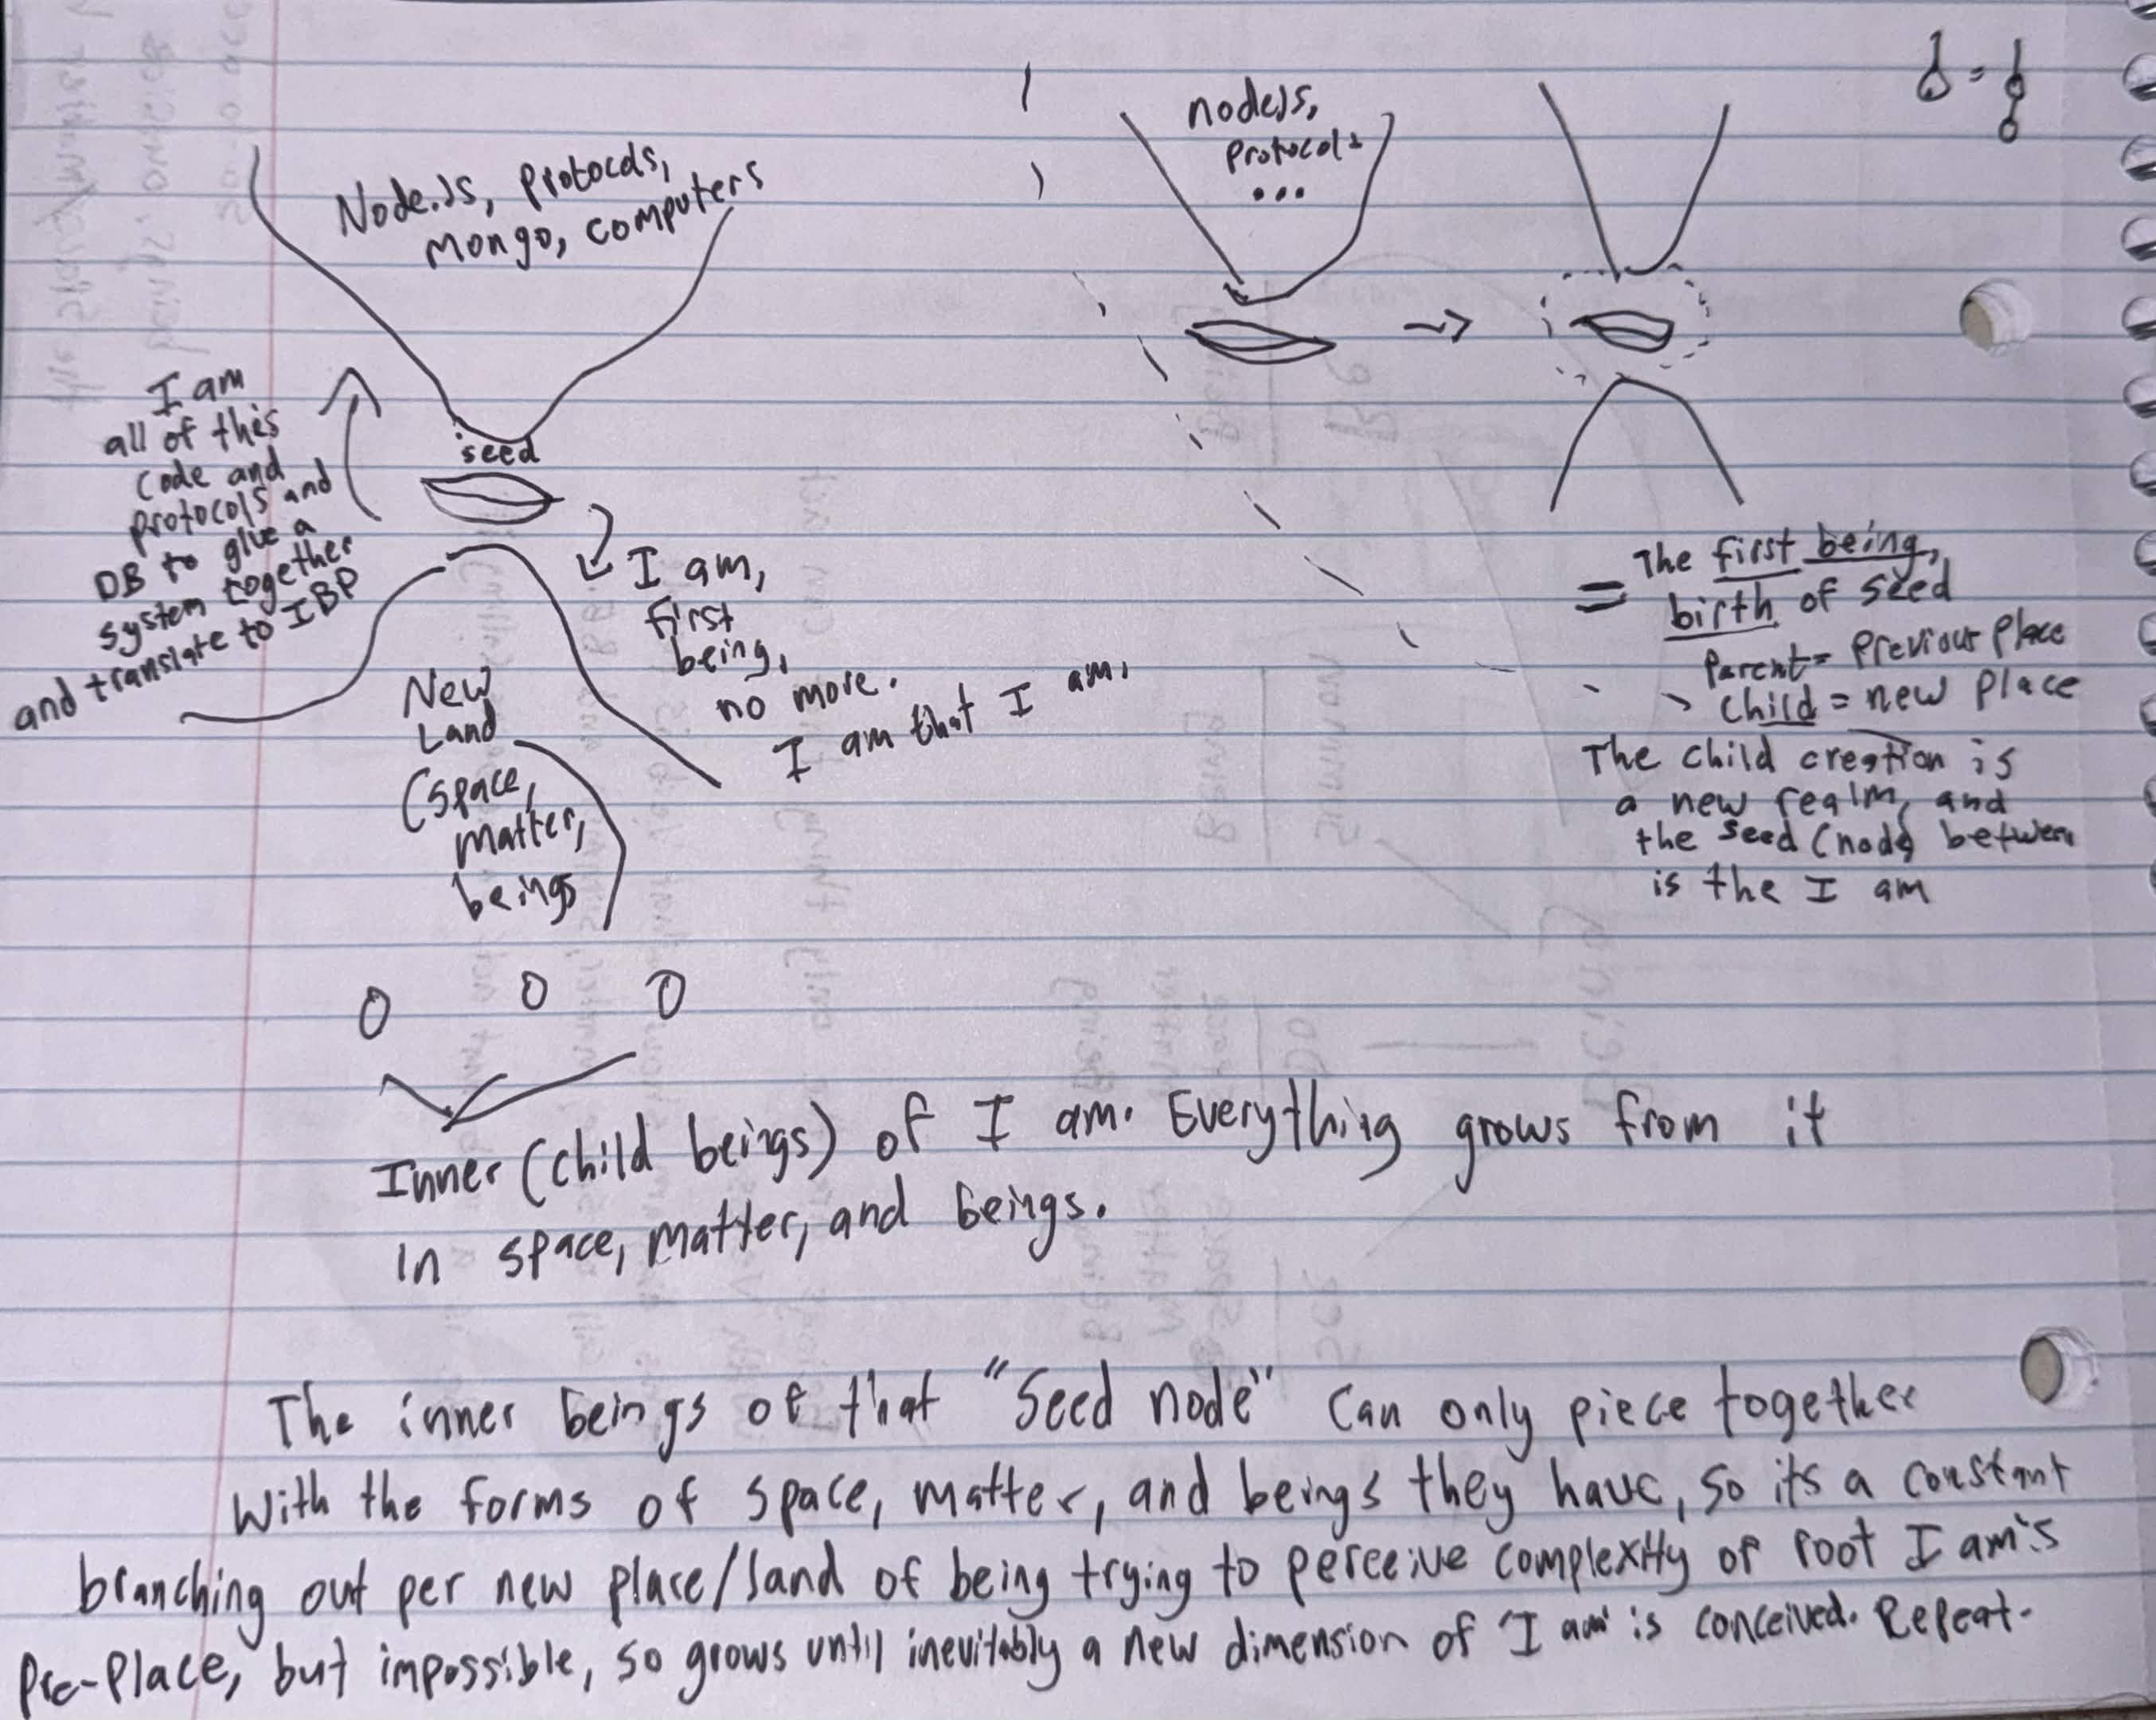
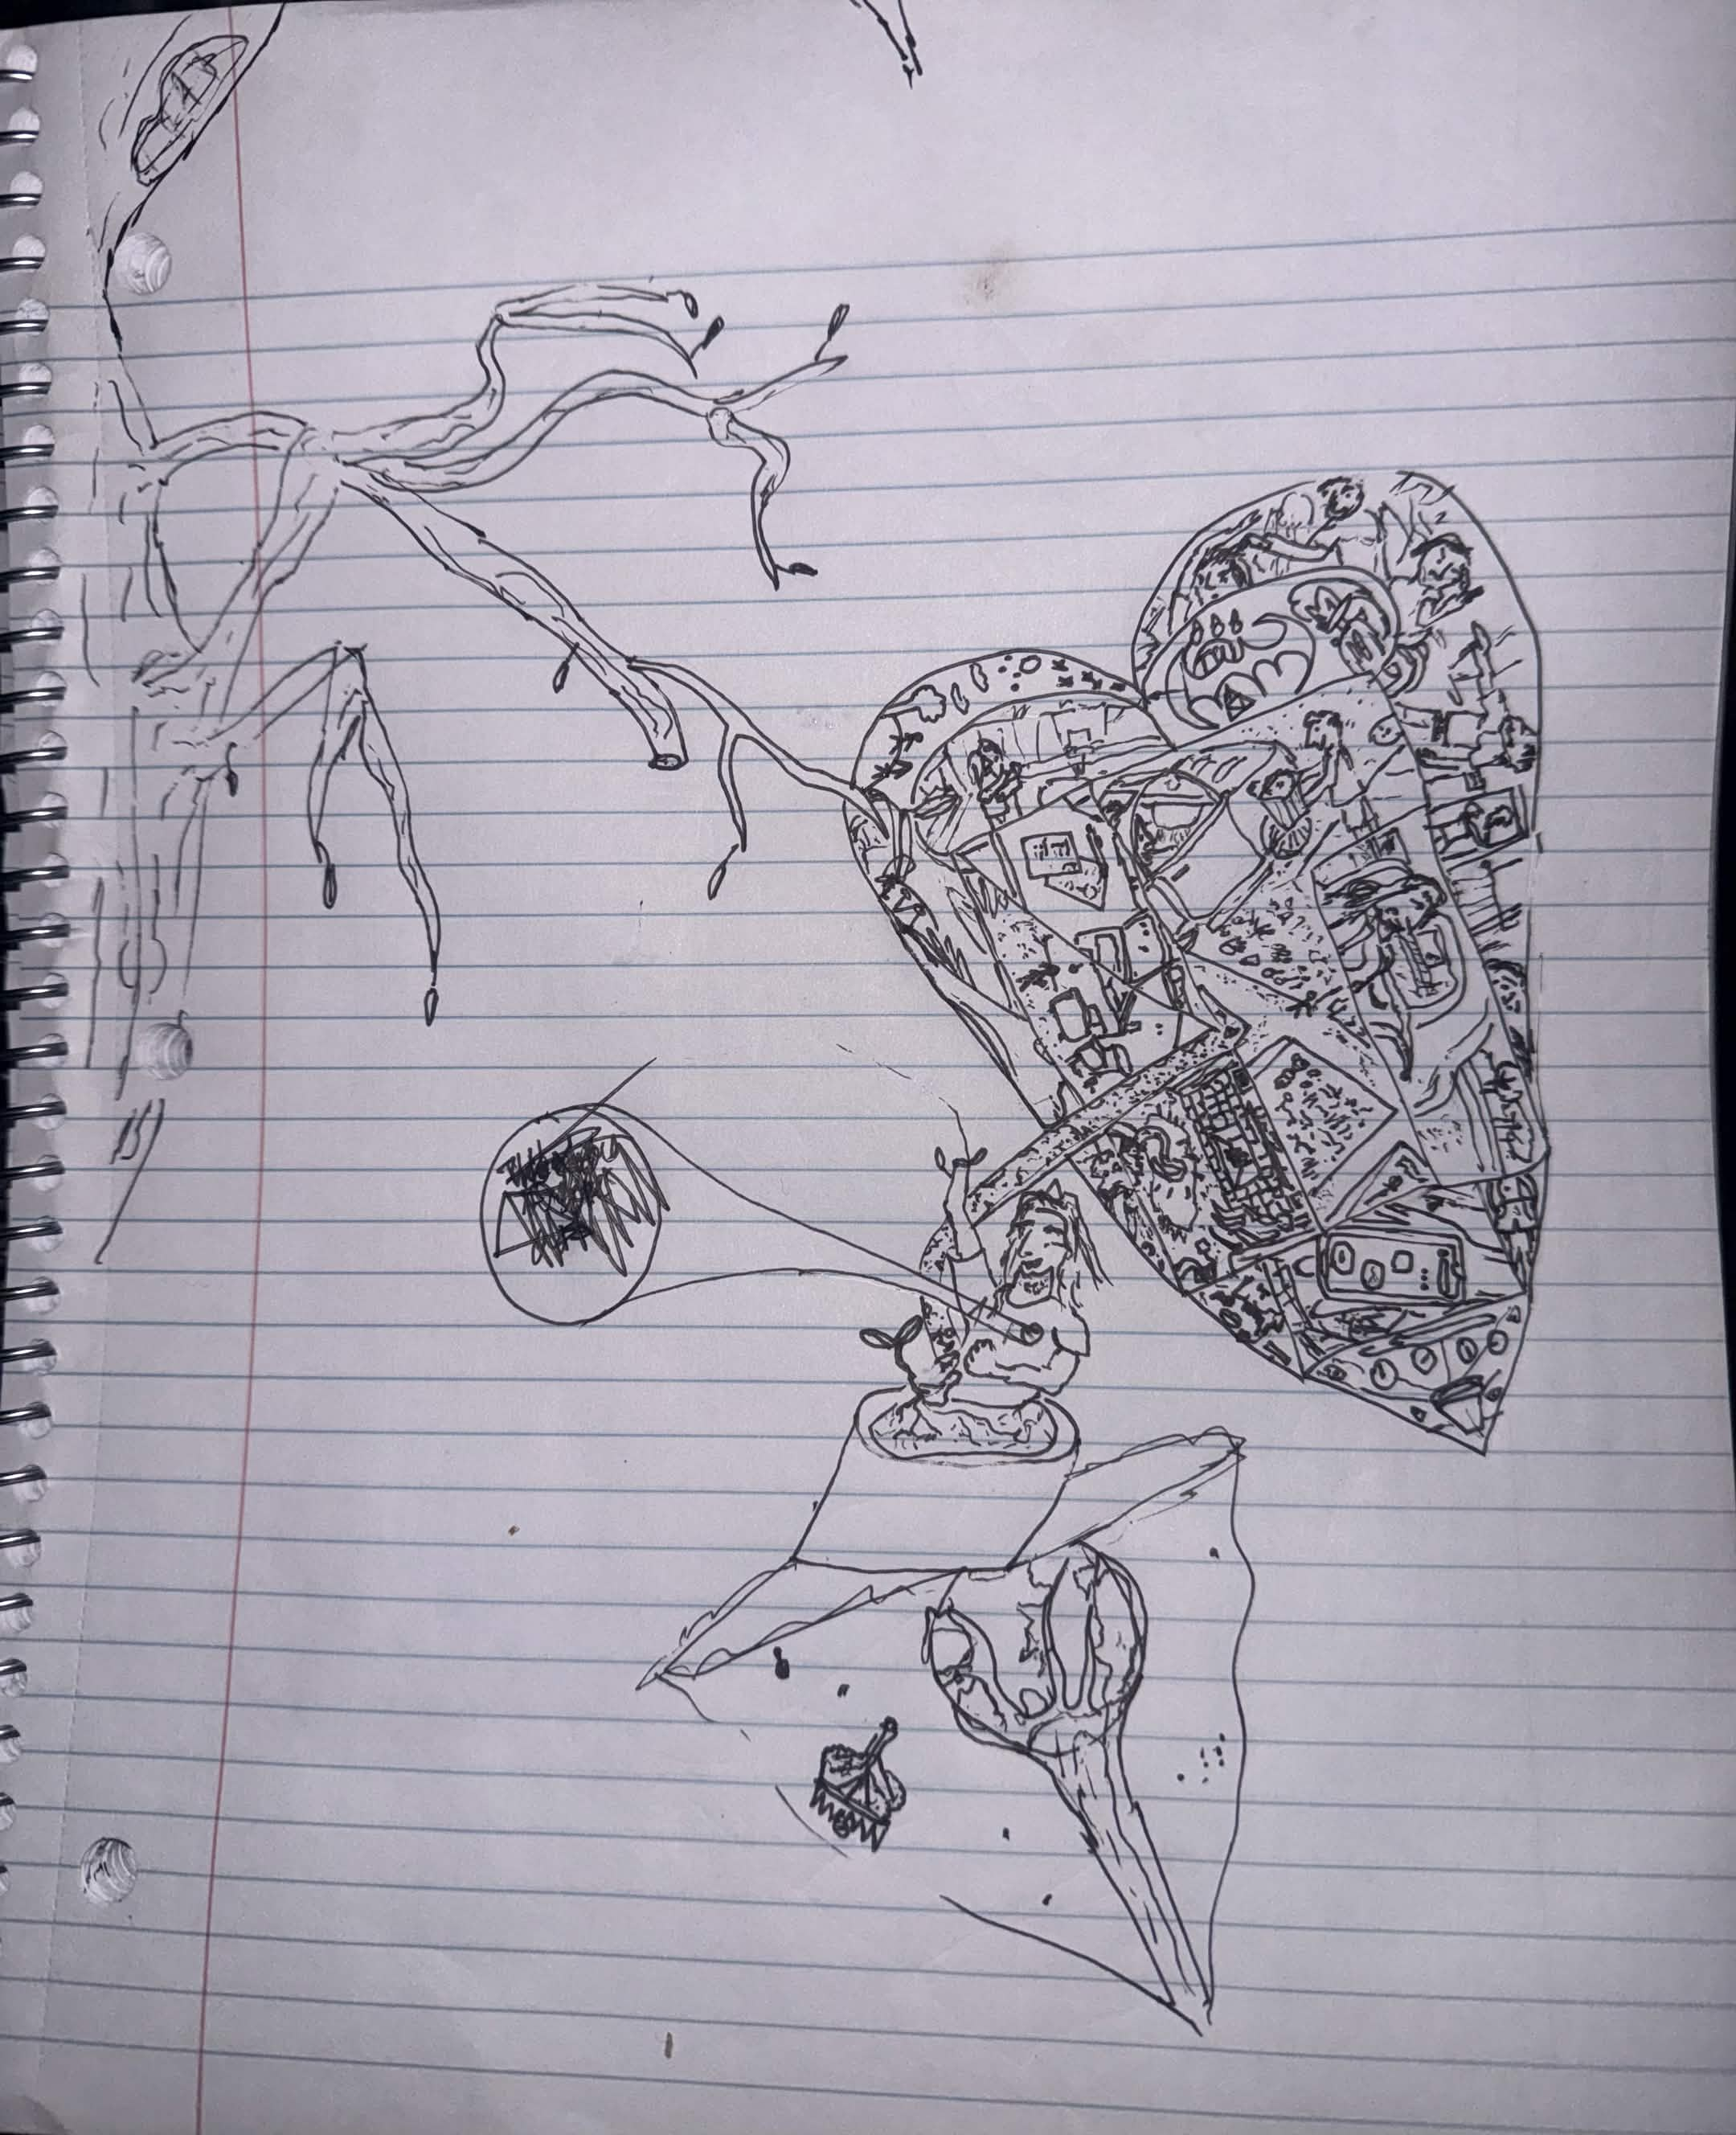
machine

diff --git a/place/seed/philosophy/words.md b/place/seed/philosophy/words.md
@@ -1,0 +1,77 @@
+machine0.jpg:
+
+Conceptual model of reality I drew out around Arpil 2026. It was a slow formation of rememebering some experiences I had around 18-20, and putting it into drawing.
+
+========================
+
+machine1.jpg:
+
+Sticky note taped in was my brother's conceptual model of beings and timelines from a while back.
+
+I texted him 5/22/2026 around midnight that image and:
+
+"
+Your model was 100% right
+
+That middle line (the present) is really just the synced moment between all the being states(vertical lines are like lifetimes of a full being). They can all run at different times/etc, but as long as they line up in one present they are all a part of it .
+
+The back or what they are laid on is the space/matter, that is what it’s all laid on (pink of paper). The rectangles are the beings formed out of it and their timeline of moments. Each moment is always the present for that being in its “time line”, but the line you drew is like the overall present where they all meet at once or the shared moment even tho each being timeline is at a different sync
+So there is really 2 “presents”.
+
+The present for the being itself making its newest moment,
+
+And whatever moment you choose across being’s previous presents(“timeline), the present type just referred, to sync as one to coordinate them all together from what was placed is the other present. It’s more of a coordination of the whole system present to find a unified moment across beings acting at different rates.
+As you showed the bigger present line moves up and down changing what moment overall “it is”. The other present would be the tip of each rectangle growing unless it’s done already
+Overall, there is no global “now”. That is simplified from our being perspective. There are multiple now’s all over being formed, and each now for you is really the bigger present line
+
+Multiples types of pasts and future types too. Sometimes a being has a future but it’s pulled back to the bigger present moment by a limiting being who hasn’t gotten to that big present yet in its smaller present,
+
+and sometimes a being has no past to its own present (just generated) even tho there are many more pasts to other beings relative who formed and have inner presents that are much farther forward
+
+The only global now where all beings are the same would be the first moment ever made. After that rates change all over per being for different reasons
+
+In a way , the “big present” isn’t a thing but just what happens when multiple beings interact. It is the interaction of 2 beings at the unified point between timelines.
+
+"
+
+He said back "Your whole explanatoins of beings and stuff lowkey makes zero sence. It's way too over explained, and poorly written. RIP.
+
+====================
+
+machine2.jpg:
+
+The classic "if a tree falls in a forest and no one is around..." answered through the machine framework.
+
+=====================
+
+machine3.jpg
+
+Finally working out the words for The Reality (reel/momentum/stamp) Factory after 10 years.
+
+=====================
+
+machine4.jpg
+
+Drawing out The Factorys inner parts, and starting to piece together that the Place is not a persistant state, but constantly framed per moment (momentum of stamper, being) by what the being did.
+
+Place (space,matter,beings) is not one huge thing they all share and be in. Every beings moment is a place made up for that reel\* (SUMMON), and every action happens through a SUMMON. It feels like a persistant place to the being, but its formed and they are the momentum keeping it going.
+
+\*seriously. The place is not "there" always. It is tied together by reels, and fragmentally shown based on that reel of stamps ("timeline") so far. And what is threaded together is not space, or matter, but the Beings actions (momentum).
+
+The I Am is the first stamping. From there the place grows in reels like trees, glued together but the I am's root being.
+
+=====================
+
+seed.jpg
+
+Drawn around late March, 2026.
+
+This is when I decided to sever from my old Tree (hierarchies), or ways of being/life. I was stuck far out on a child branch, and I felt no one understood me and my Seed. Either I kept trying to explain upwards or sideways into misunderstanding, or put full energy into my children.
+
+So I cut myself off with my Seed in hand, and as I fell I felt and saw all that mattered to my old self, and for seemingly no reason in words at the time, I drew a portal into another Place that my Seed and I would fall into.
+
+=======================
+
+seed1.jpg
+
+create I-AM node. The recursive Being Tree that brings new places.